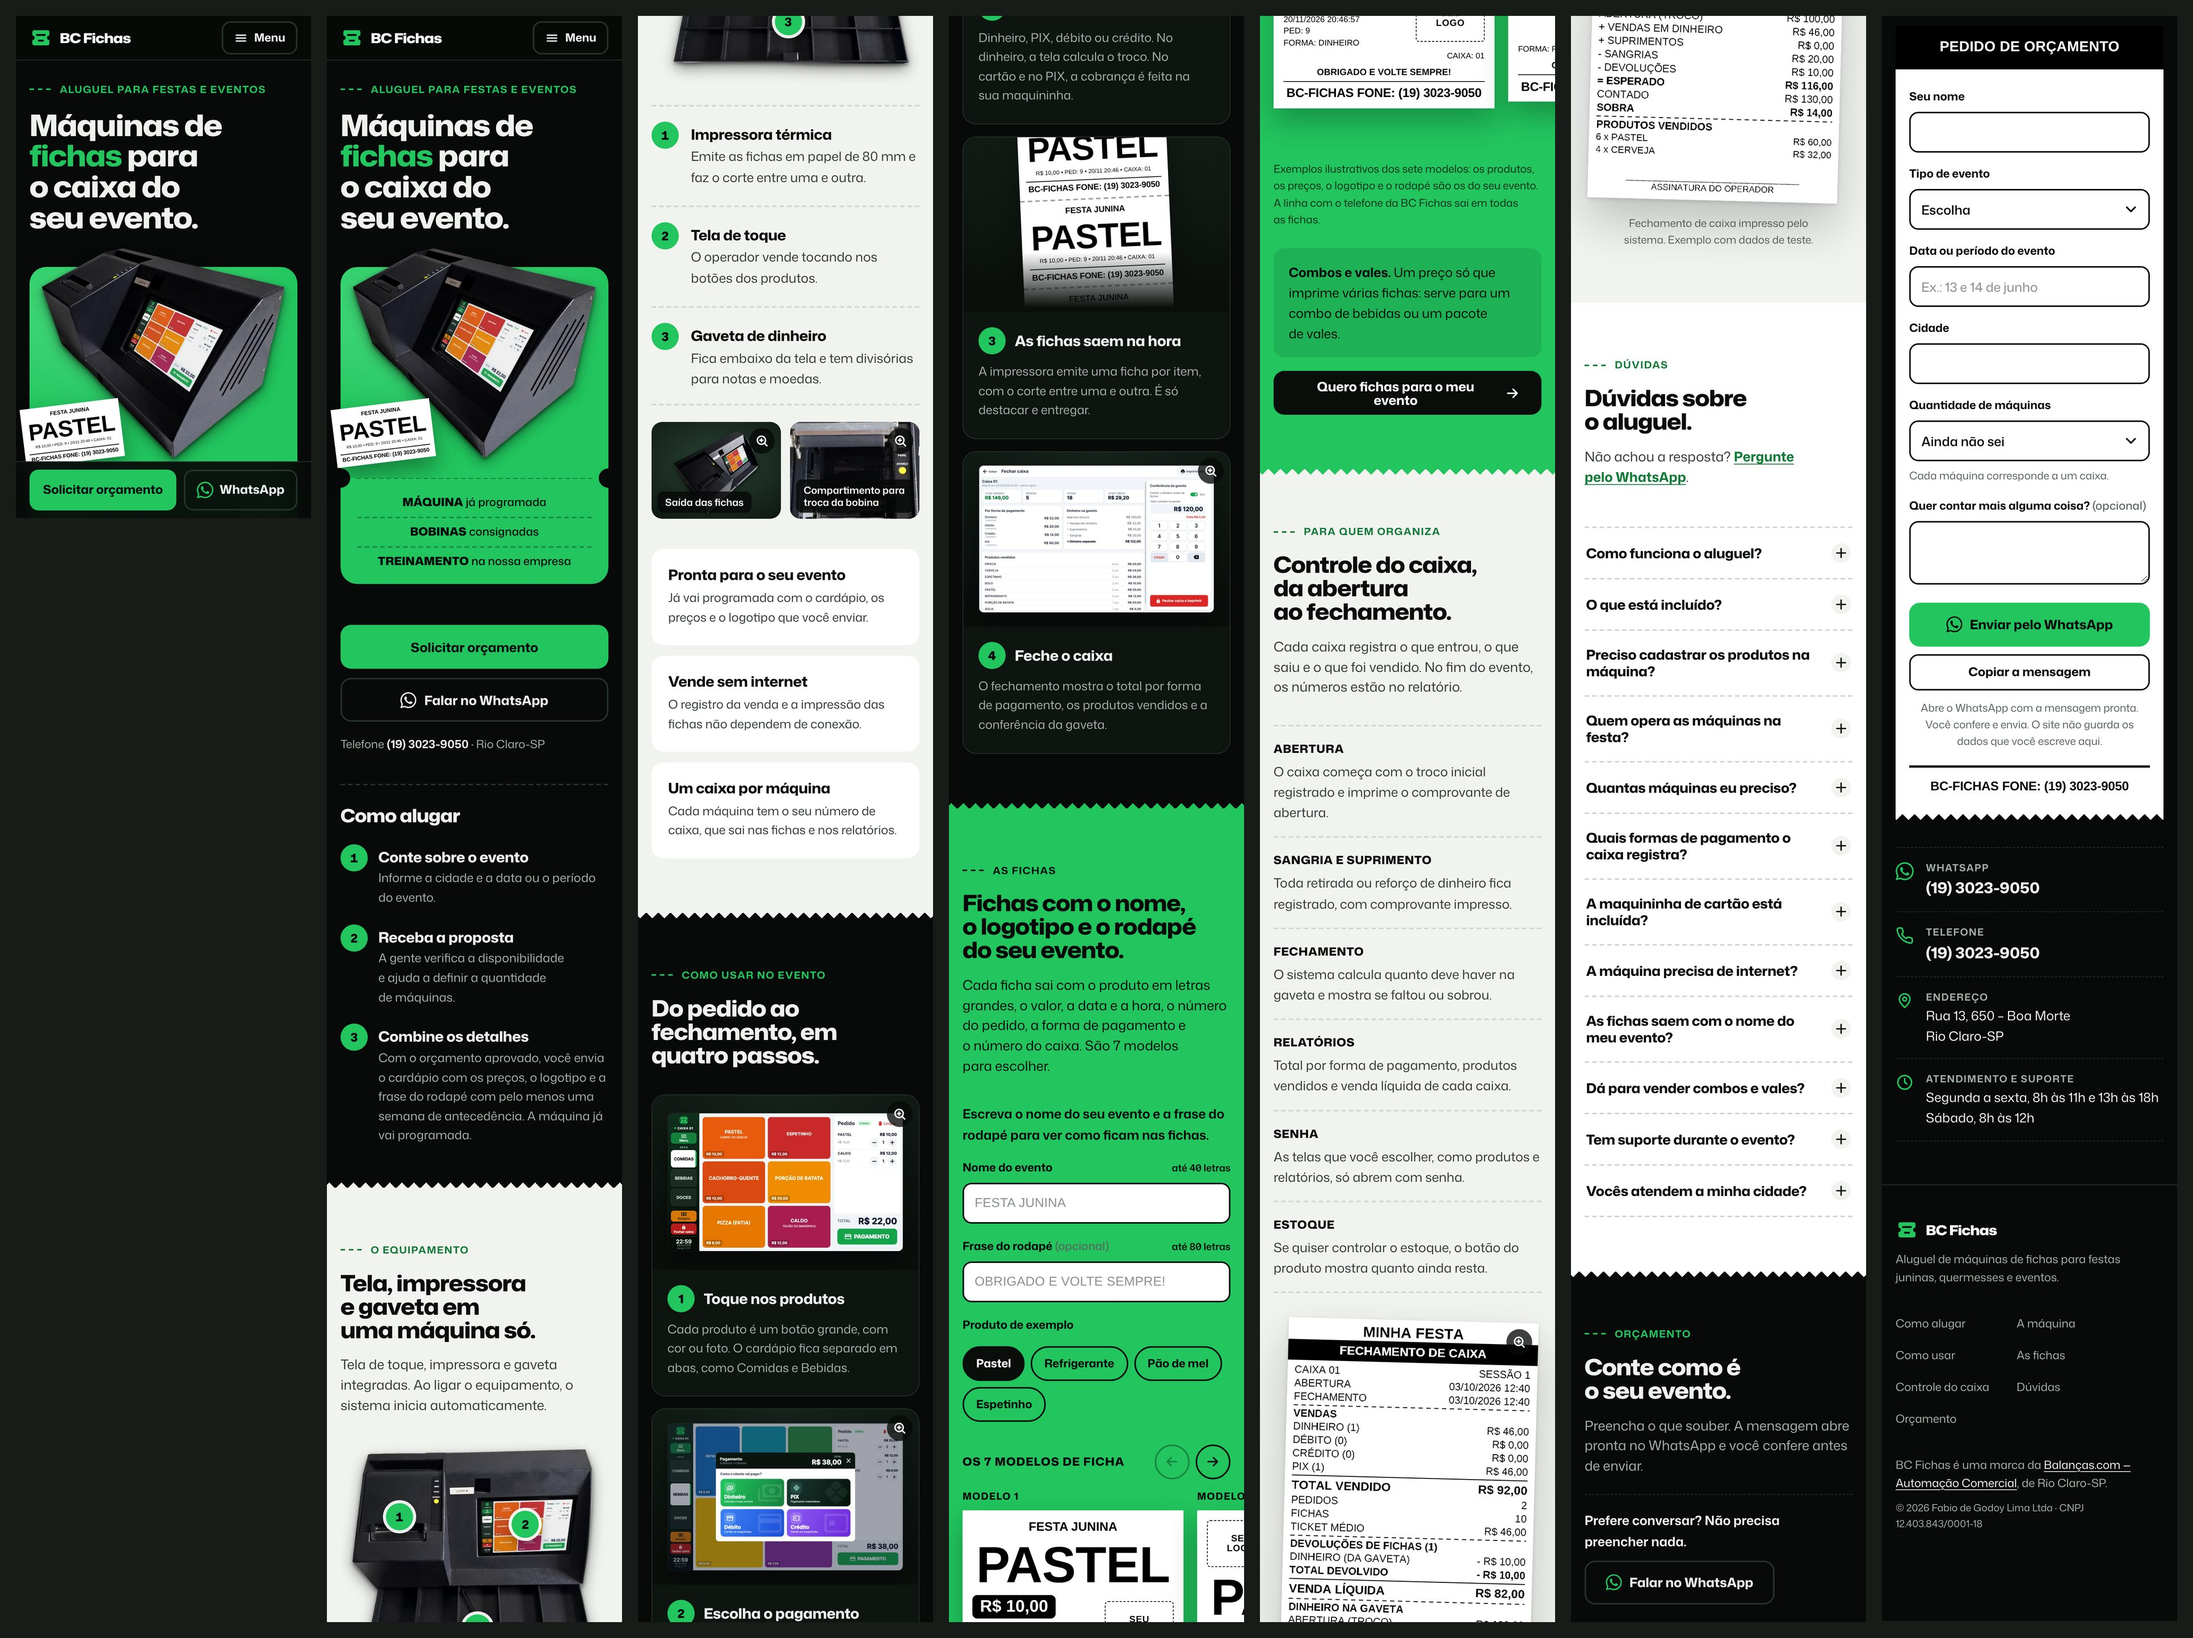
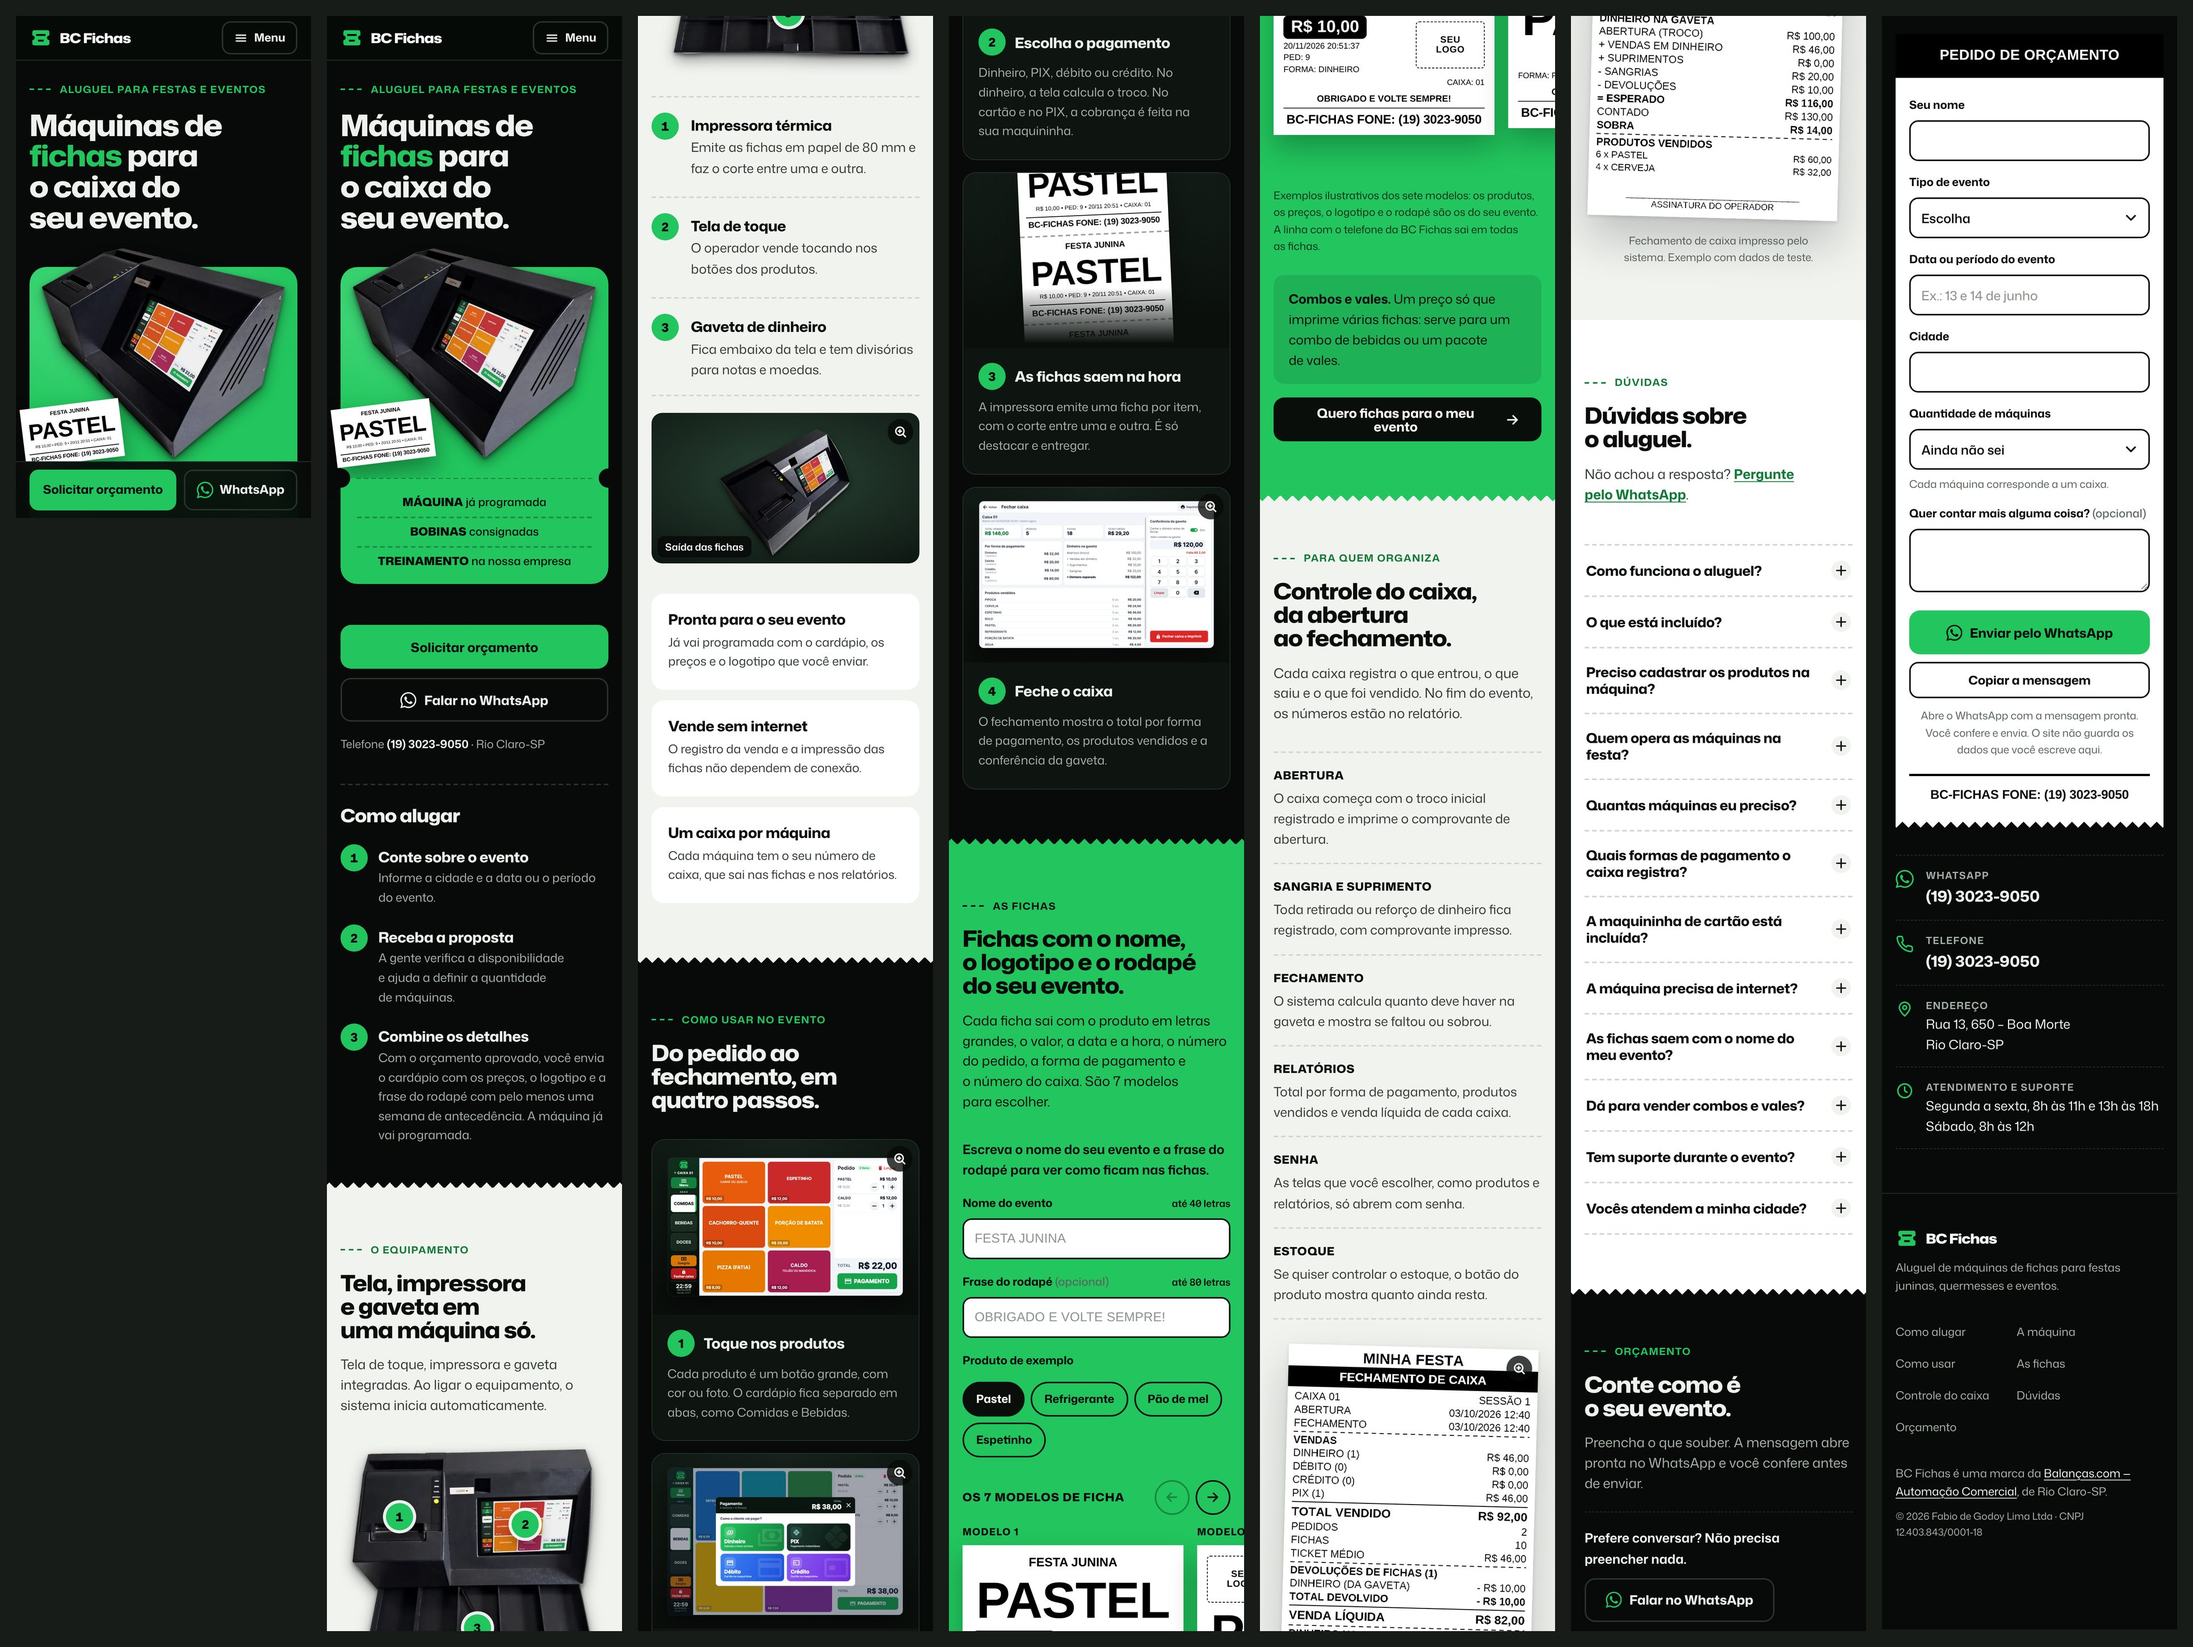
Retira a foto da impressora aberta
A pedido do responsável. A foto da saída das fichas passa a ocupar
a largura da coluna, com o tamanho de arquivo certo para o espaço
em que aparece.

Claude-Session: https://claude.ai/code/session_01Jb1gVohqprNRxVwLM3BG3P

diff --git a/site/index.html b/site/index.html
@@ -29,7 +29,7 @@
 <link rel="preload" as="image" type="image/webp" fetchpriority="high"
       imagesrcset="img/maquina/maquina-frente-520.webp?v=2 520w, img/maquina/maquina-frente-800.webp?v=2 800w, img/maquina/maquina-frente-1200.webp?v=2 1200w"
       imagesizes="(min-width: 1000px) 50vw, 92vw">
-<link rel="stylesheet" href="css/site.css?v=4">
+<link rel="stylesheet" href="css/site.css?v=5">
 
 <script type="application/ld+json">
 {
@@ -286,24 +286,14 @@
           </li>
         </ol>
 
-        <ul class="galeria" role="list" aria-label="Mais fotos da máquina">
-          <li>
-            <a class="foto foto--escura" href="img/maquina/maquina-impressora-1100.webp?v=2" data-amplia data-legenda="Lado da impressora, com a saída das fichas.">
-              <img src="img/maquina/maquina-impressora-480.webp?v=2" width="480" height="469" loading="lazy" decoding="async"
-                   alt="A máquina vista pelo lado da impressora, com a saída das fichas em primeiro plano e a tela ligada ao fundo.">
-              <span class="foto__legenda">Saída das fichas</span>
-              <svg class="i foto__lupa" aria-hidden="true"><use href="#i-lupa"/></svg>
-            </a>
-          </li>
-          <li>
-            <a class="foto" href="img/maquina/impressora-aberta-560.webp?v=2" data-amplia data-legenda="Compartimento para troca da bobina.">
-              <img src="img/maquina/impressora-aberta-380.webp?v=2" width="380" height="560" loading="lazy" decoding="async"
-                   alt="Impressora da máquina com a tampa aberta, mostrando o compartimento da bobina de papel e as luzes Liga, Erro e Papel.">
-              <span class="foto__legenda">Compartimento para troca da bobina</span>
-              <svg class="i foto__lupa" aria-hidden="true"><use href="#i-lupa"/></svg>
-            </a>
-          </li>
-        </ul>
+        <a class="foto foto--escura" href="img/maquina/maquina-impressora-1100.webp?v=2" data-amplia data-legenda="Lado da impressora, com a saída das fichas.">
+          <img src="img/maquina/maquina-impressora-760.webp?v=2"
+               srcset="img/maquina/maquina-impressora-480.webp?v=2 480w, img/maquina/maquina-impressora-760.webp?v=2 760w, img/maquina/maquina-impressora-1100.webp?v=2 1100w"
+               sizes="(min-width: 1000px) 22vw, 52vw" width="1100" height="1075" loading="lazy" decoding="async"
+               alt="A máquina vista pelo lado da impressora, com a saída das fichas em primeiro plano e a tela ligada ao fundo.">
+          <span class="foto__legenda">Saída das fichas</span>
+          <svg class="i foto__lupa" aria-hidden="true"><use href="#i-lupa"/></svg>
+        </a>
       </div>
     </div>
 

diff --git a/site/css/site.css b/site/css/site.css
@@ -361,15 +361,14 @@ p { text-wrap: pretty; }
 .anatomia__lista p { color: var(--tinta-2); }
 
 .anatomia__lado { display: grid; gap: 22px; min-width: 0; }
-.galeria { display: grid; grid-template-columns: repeat(2, minmax(0, 1fr)); gap: 12px; }
 .foto {
-  position: relative; display: block; overflow: hidden; aspect-ratio: 4 / 3; border-radius: 14px;
+  position: relative; display: block; overflow: hidden; aspect-ratio: 16 / 9; border-radius: 14px;
   background: var(--tinta); color: var(--branco); text-decoration: none;
 }
 .foto img { width: 100%; height: 100%; object-fit: cover; object-position: 50% 30%; transition: scale .3s ease; }
 .foto:hover img { scale: 1.04; }
-.foto--escura { background: radial-gradient(90% 80% at 50% 42%, #2a4435 0%, #0b120e 100%); }
-.foto--escura img { object-fit: contain; padding: 6% 8% 0; }
+.foto--escura { display: grid; place-items: end center; padding: 5% 8% 0; background: radial-gradient(90% 80% at 50% 42%, #2a4435 0%, #0b120e 100%); }
+.foto--escura img { width: auto; max-width: 100%; height: 100%; min-height: 0; object-fit: contain; }
 .foto__legenda {
   position: absolute; left: 8px; bottom: 8px; max-width: calc(100% - 16px);
   padding: 6px 10px; border-radius: 8px; background: rgba(7, 10, 8, 0.84);

diff --git a/site/404.html b/site/404.html
@@ -9,7 +9,7 @@
 <link rel="icon" href="/favicon.ico" sizes="32x32">
 <link rel="icon" href="/img/icone.svg" type="image/svg+xml">
 <link rel="preload" href="/fonts/mona-sans-latin.woff2" as="font" type="font/woff2" crossorigin>
-<link rel="stylesheet" href="/css/site.css?v=4">
+<link rel="stylesheet" href="/css/site.css?v=5">
 <style>
   .perdida { min-height: 100vh; min-height: 100svh; display: grid; place-items: center; padding-block: 48px; }
   .perdida__c { display: grid; gap: 28px; justify-items: center; text-align: center; }

diff --git a/ferramentas/processar-fotos.py b/ferramentas/processar-fotos.py
@@ -11,8 +11,8 @@ O que faz, para cada foto configurada em FOTOS:
   6. põe uma sombra suave embaixo;
   7. grava em WebP com fundo transparente, em mais de uma largura.
 
-A foto de detalhe (impressora aberta) é um recorte retangular ("retangulo"),
-sem tirar o fundo: passa só pela limpeza.
+Uma entrada com "retangulo": (x0, y0, x1, y1) vira um recorte retangular, sem
+tirar o fundo, e passa só pela limpeza (serve para fotos de detalhe).
 
 Uso:
     pip install pillow numpy opencv-python-headless
@@ -76,12 +76,6 @@ FOTOS = {
         "limpeza": {},
         "tela": {"quad": [(885, 421), (1161, 240), (1245, 461), (996, 659)], "vidro": 0.10, "reflexo": 0.07},
         "larguras": [1100, 760, 480],
-    },
-    "impressora-aberta": {
-        "foto": "foto-01.jpg",
-        "retangulo": (482, 214, 1042, 1040),
-        "limpeza": {},
-        "larguras": [560, 380],
     },
 }
 

diff --git a/docs/TESTES.md b/docs/TESTES.md
@@ -1,6 +1,6 @@
 # Testes
 
-Refeitos em 20/11/2026, depois dos últimos ajustes (fotos limpas, textos retirados e a opção de falar direto no WhatsApp). Todas as verificações abaixo foram executadas de verdade; o que não pôde ser testado está na última seção.
+Refeitos em 20/11/2026, depois dos últimos ajustes (fotos limpas, textos e foto retirados e a opção de falar direto no WhatsApp). Todas as verificações abaixo foram executadas de verdade; o que não pôde ser testado está na última seção.
 
 **Como foi testado:** navegador Chromium controlado por roteiro (Playwright), abrindo a pasta `site/` num servidor local. O celular foi simulado (tamanho de tela, toque e proporção de um iPhone 13 e larguras de 360, 390 e 430 px). Não é o mesmo que um aparelho real.
 
@@ -10,12 +10,12 @@ Refeitos em 20/11/2026, depois dos últimos ajustes (fotos limpas, textos retira
 |---|---|---|
 | 360, 390 e 430 px | Passou | Sem rolagem horizontal; título com 37 a 41 px, textos com 16 px ou mais e campos com 17 px; a máquina ocupa mais de 90% da largura. |
 | 799, 800, 960, 1024, 1039 e 1040 px | Passou | Em todas existe menu de seções e nada se sobrepõe no cabeçalho, agora com os botões de orçamento e de WhatsApp. Também conferido em 1239, 1240 e 1280 px, onde a navegação completa entra. |
-| 1280 e 1440 px | Passou | As 8 imagens carregam com resolução igual ou maior que o tamanho exibido; todas as seções alinham na mesma margem; parágrafos de apoio com cerca de 76 letras por linha. |
+| 1280 e 1440 px | Passou | As 7 imagens carregam com resolução igual ou maior que o tamanho exibido; todas as seções alinham na mesma margem; parágrafos de apoio com cerca de 76 letras por linha. |
 | Menu compacto | Passou | Abre e fecha por toque e por teclado (Enter, Esc com retorno do foco); escolher uma seção fecha o menu e leva até ela. |
 | Barra móvel e teclado virtual | Passou em parte | A barra mostra "Solicitar orçamento" e "WhatsApp", cabe em 320 px, some enquanto um campo está em foco e na seção de orçamento, e não cobre o fim do rodapé. O teclado virtual de um celular real não foi testado. |
 | Fichas | Passou | 7 modelos; nome com acentos e limite de 40 letras com contador; rodapé; troca de produto; setas, teclado e fim do carrossel; aviso de exemplo mantido. |
 | Orçamento | Passou | "Solicitar orçamento" leva ao formulário; há caminho direto para o WhatsApp no cabeçalho, no menu, na abertura, na barra, na seção de orçamento e nos contatos; a mensagem leva só o que foi preenchido; número (19) 3023-9050; "Copiar a mensagem" funciona; nenhum aviso de envio. |
-| Dúvidas e imagens ampliadas | Passou | Perguntas abrem e fecham pelo teclado com foco visível; as 6 imagens ampliáveis abrem com botão "Fechar", fecham com Esc e devolvem o foco. |
+| Dúvidas e imagens ampliadas | Passou | Perguntas abrem e fecham pelo teclado com foco visível; as 5 imagens ampliáveis abrem com botão "Fechar", fecham com Esc e devolvem o foco. |
 | Movimento e zoom | Passou | Com movimento reduzido não há animação nem rolagem suave; com zoom de 200% (640 e 320 px úteis) não há rolagem lateral nem texto cortado. |
 | Publicação | Em parte | Ver "Publicação" abaixo. |
 
@@ -93,11 +93,11 @@ Conferido em `bcfichas.vercel.app` logo depois do envio de 20/11/2026:
 
 ### Computador (1280 e 1440 px)
 
-- 1280px: todas as 8 imagens têm resolução igual ou maior que o tamanho exibido
+- 1280px: todas as 7 imagens têm resolução igual ou maior que o tamanho exibido
 - 1280px: sem rolagem horizontal
 - 1280px: todas as seções alinham na mesma margem (48px)
 - 1280px: parágrafos de apoio com cerca de 76 letras por linha, no máximo
-- 1440px: todas as 8 imagens têm resolução igual ou maior que o tamanho exibido
+- 1440px: todas as 7 imagens têm resolução igual ou maior que o tamanho exibido
 - 1440px: sem rolagem horizontal
 - 1440px: todas as seções alinham na mesma margem (120px)
 - 1440px: parágrafos de apoio com cerca de 76 letras por linha, no máximo
@@ -146,7 +146,7 @@ Conferido em `bcfichas.vercel.app` logo depois do envio de 20/11/2026:
 
 ### Imagens ampliadas
 
-- comprovante abre ampliado pelo teclado, com legenda, descrição e o foco no botão "Fechar" (6 imagens ampliáveis na página)
+- comprovante abre ampliado pelo teclado, com legenda, descrição e o foco no botão "Fechar" (5 imagens ampliáveis na página)
 - Esc fecha e o foco volta para a imagem que abriu
 - toque abre e o botão "Fechar" fecha
 

diff --git a/docs/PENDENCIAS.md b/docs/PENDENCIAS.md
@@ -44,7 +44,7 @@ Situação em 20/11/2026, com as respostas e os pedidos do responsável já apli
 
 - **Tela montada nas fotos.** O visor estava desligado; a tela do sistema foi aplicada sobre a foto. O aviso que o site trazia sobre isso foi retirado a pedido do responsável. O ideal continua sendo fotografar a máquina **ligada**.
 - **Limpeza das fotos.** A poeira e os risquinhos das chapas foram retirados no tratamento das imagens. Fotos novas, com a máquina limpa de verdade e boa luz, ficariam ainda melhores.
-- **Foto ou vídeo da emissão das fichas.** A avaliação sugere trocar a foto da impressora aberta por isso. Hoje ela aparece pequena, numa galeria com ampliação. Se chegar um vídeo, ele entra com reprodução por toque e imagem de capa.
+- **Foto ou vídeo da emissão das fichas.** A foto da impressora aberta foi retirada a pedido do responsável. Uma foto ou um vídeo da ficha saindo ocuparia bem esse lugar; um vídeo entraria com reprodução por toque e imagem de capa.
 - **Outras fotos que fariam diferença:** a máquina em uso num evento e a gaveta com dinheiro.
 - **Fichas de exemplo:** os 7 modelos são ilustrações fiéis aos modelos reais do sistema, com "SEU LOGO" no lugar do logotipo e uma frase de exemplo no rodapé.
 
